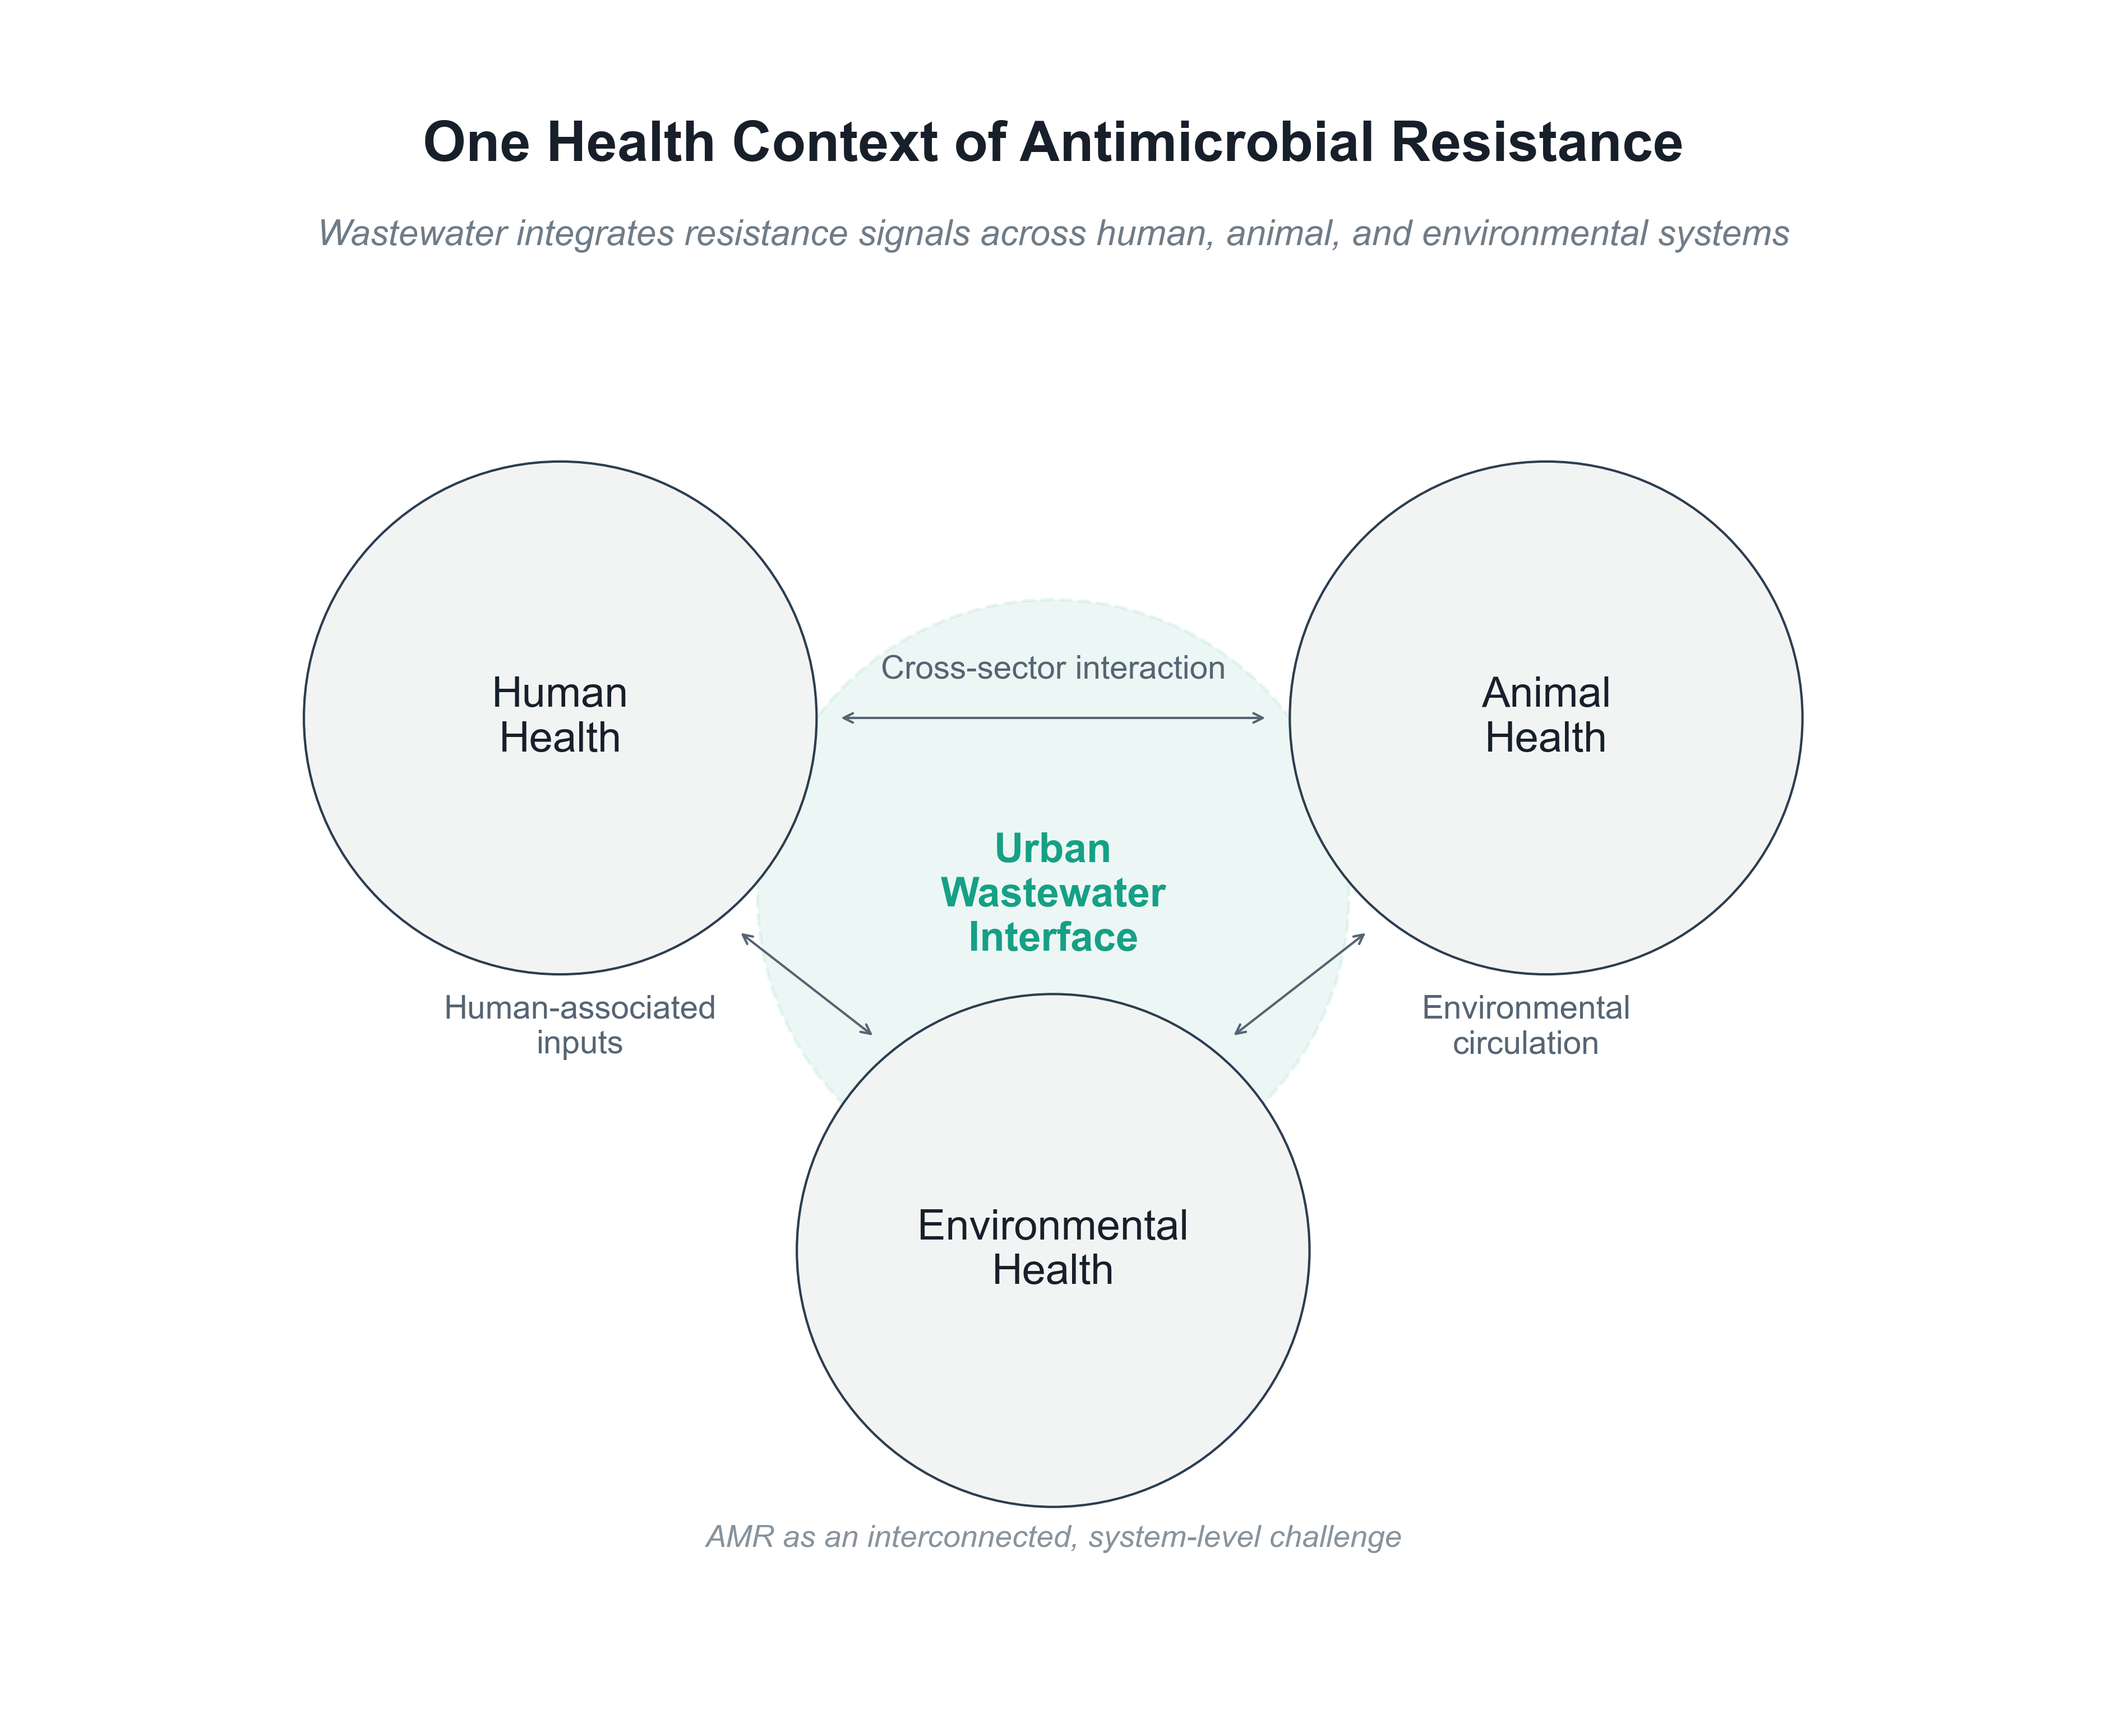
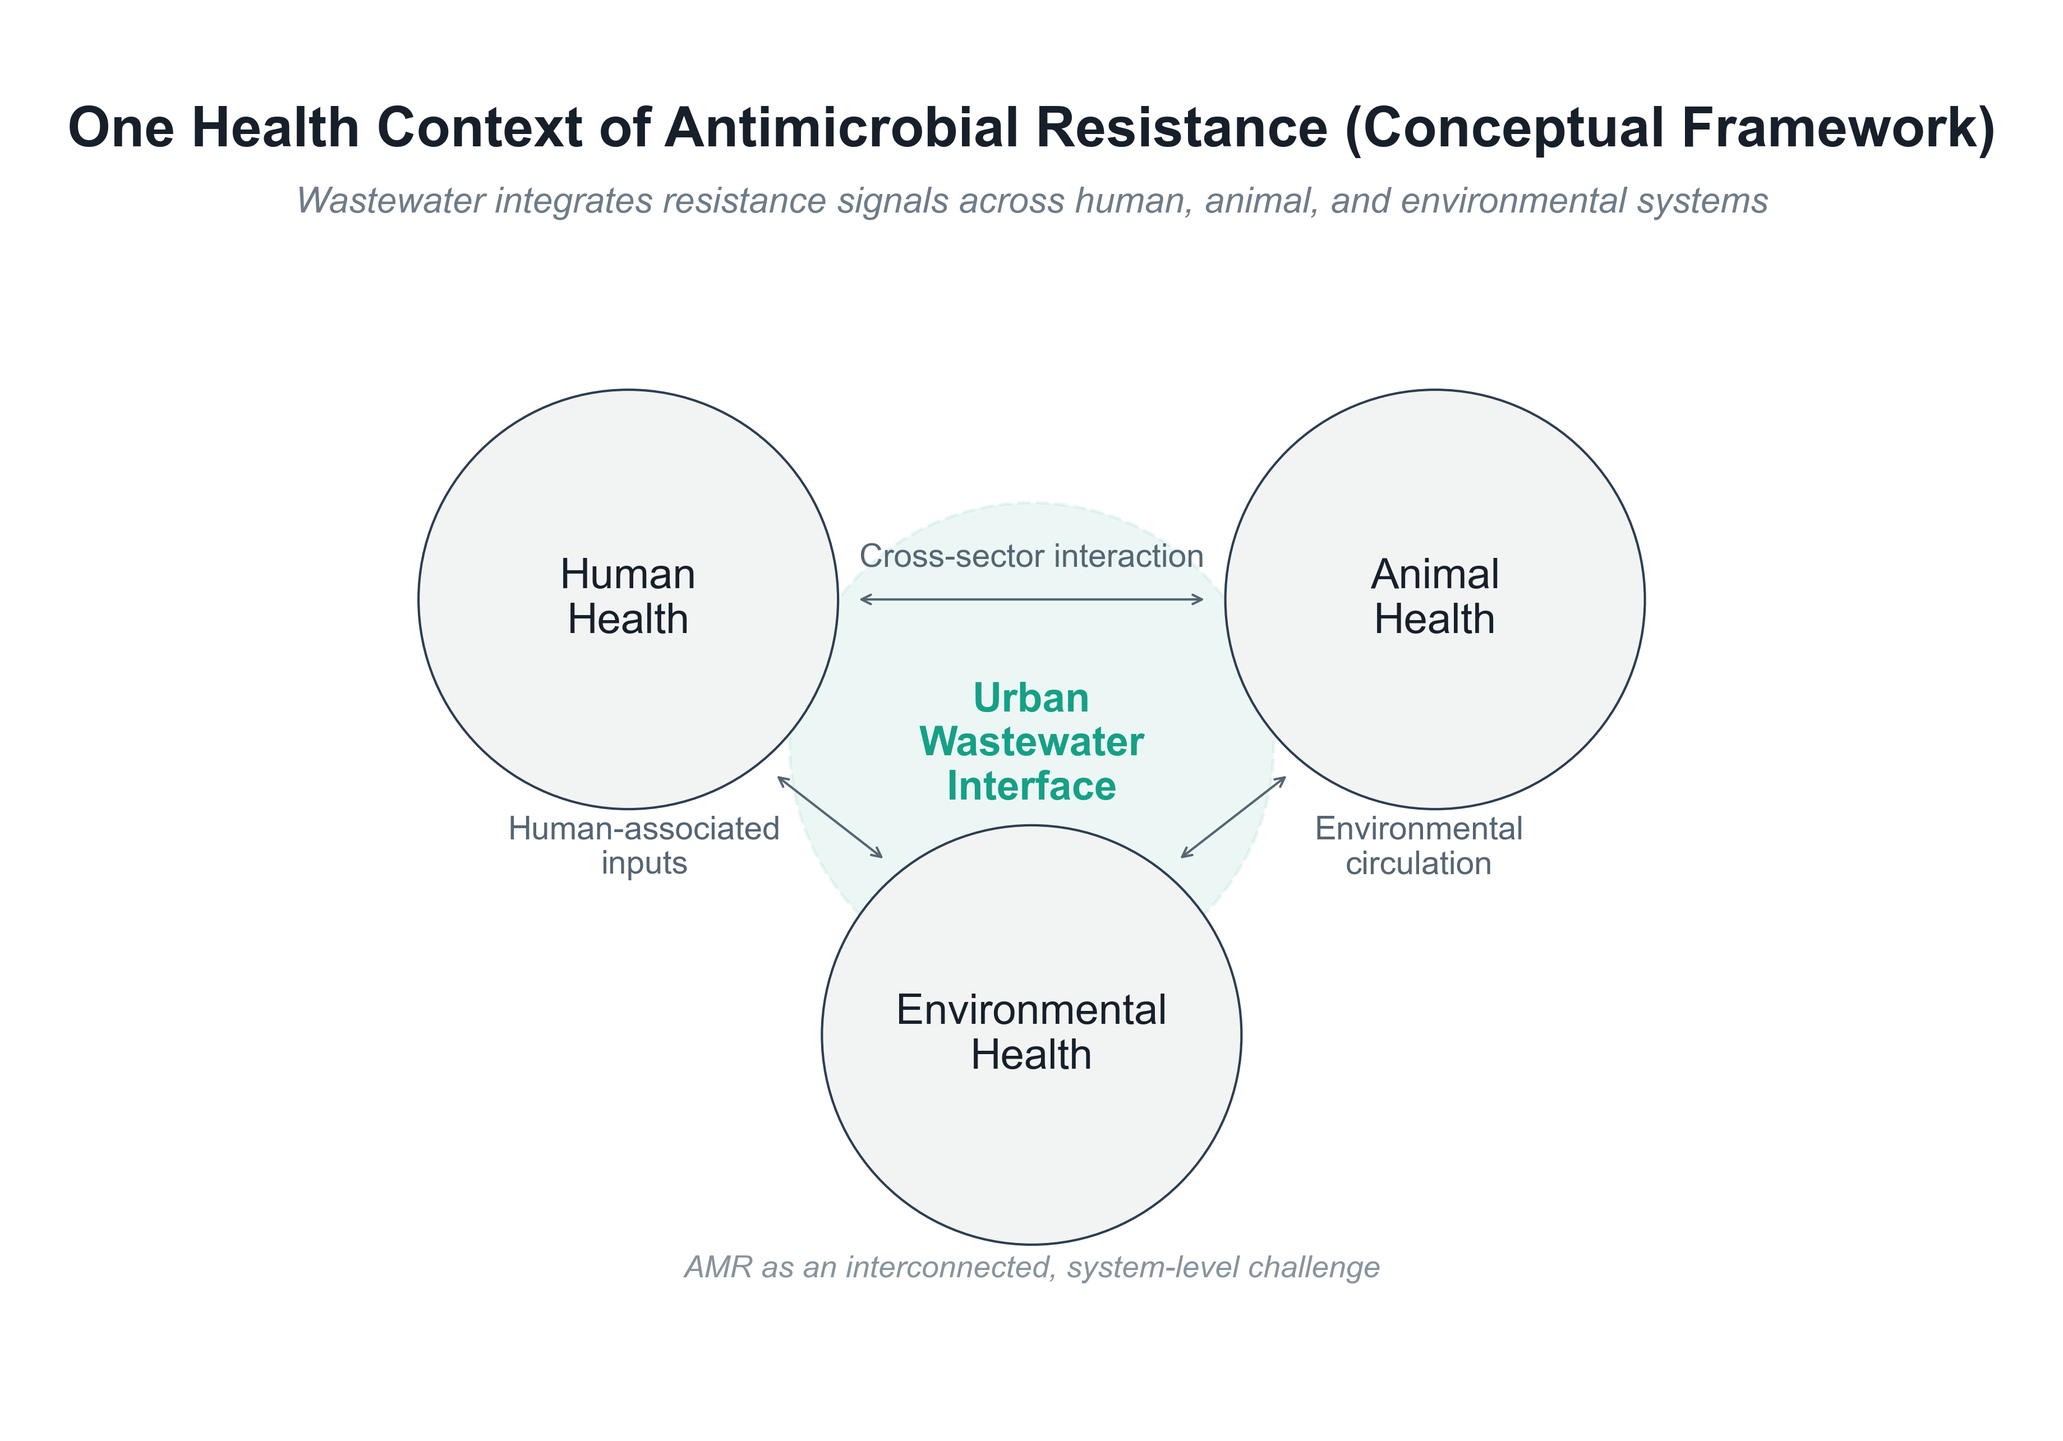
Document Tier-2 baseline inference and visualization interpretation boundaries

diff --git a/visualization/amr_thesis_visualization.py b/visualization/amr_thesis_visualization.py
@@ -101,7 +101,7 @@ def draw_one_health_framework(ax, font_scale=1.0):
     create_gradient_background(ax)
     
     # Title - Title Case
-    ax.text(5, 7.9, 'One Health Context of Antimicrobial Resistance', fontsize=17*font_scale, fontweight='bold',
+    ax.text(5, 7.9, 'One Health Context of Antimicrobial Resistance (Conceptual Framework)', fontsize=17*font_scale, fontweight='bold',
             color=COLORS['text_dark'], ha='center', va='center')
     
     # Subtitle - No quotes, lighter grey
@@ -160,7 +160,7 @@ def draw_wastewater_sources(ax, font_scale=1.0):
     create_gradient_background(ax)
     
     # Title - Title Case
-    ax.text(5, 7.7, 'Wastewater as a Population Matrix', 
+    ax.text(5, 7.7, 'Wastewater as a Population Matrix (Conceptual Framework)', 
             fontsize=17*font_scale, fontweight='bold', color=COLORS['text_dark'], ha='center')
     
     # Subtitle - No quotes
@@ -217,11 +217,11 @@ def draw_tier_2_context(ax, font_scale=1.0):
     create_gradient_background(ax)
     
     # Title - Title Case
-    ax.text(5, 7.9, 'Tier-2 Urban Wastewater Profile', 
+    ax.text(5, 7.9, 'Tier-2 Urban Wastewater Profile (Conceptual Framework)', 
             fontsize=17*font_scale, fontweight='bold', color=COLORS['text_dark'], ha='center')
     
     # Subtitle - Refined
-    ax.text(5, 7.5, 'Key characteristics of under-studied Tier-2 urban settings',
+    ax.text(5, 7.5, 'Inferred relevance through structural and infrastructural analogy',
             fontsize=11*font_scale, color=COLORS['text_grey'], ha='center', style='italic', alpha=0.85)
     
     # Descriptive Layers - Equal spacing, simplified text
@@ -257,11 +257,11 @@ def draw_comparison_framework(ax, font_scale=1.0):
     create_gradient_background(ax)
     
     # Title - Title Case
-    ax.text(5, 7.7, 'Comparative Study Logic',
+    ax.text(5, 7.7, 'Comparative Study Logic (Baseline-Referenced)',
             fontsize=17*font_scale, fontweight='bold', color=COLORS['text_dark'], ha='center')
     
     # Subtitle - Refined
-    ax.text(5, 7.3, 'Ecological comparison of resistance patterns across wastewater types',
+    ax.text(5, 7.3, 'Ecological comparison of resistance patterns against reference baselines',
             fontsize=11*font_scale, color=COLORS['text_grey'], ha='center', style='italic', alpha=0.85)
     
     # Center Separator - Exactly centered
@@ -274,7 +274,7 @@ def draw_comparison_framework(ax, font_scale=1.0):
     panels = [
         (0.6, 2.7, 'Medical-influenced\nWastewater', COLORS['medical'], 
          ['Elevated antibiotic exposure', 'Point-source healthcare inputs', 'Differentiated ARG patterns']),
-        (5.4, 2.7, 'Non-medical\nWastewater', COLORS['non_medical'], 
+        (5.4, 2.7, 'Non-medical Wastewater\n(Reference Baseline)', COLORS['non_medical'], 
          ['Community baseline signal', 'Distributed urban inputs', 'Background ARG patterns'])
     ]
     
@@ -301,14 +301,14 @@ def draw_analysis_pipeline(ax, font_scale=1.0):
     create_gradient_background(ax)
     
     # Title - Title Case
-    ax.text(5, 7.9, 'Analytical & Interpretation Framework',
+    ax.text(5, 7.9, 'Analytical & Interpretation Framework (Conceptual)',
             fontsize=17*font_scale, fontweight='bold', color=COLORS['text_dark'], ha='center')
     
     # Pipeline steps - No numbering emphasis, increased spacing
     steps = [
         ('Data Acquisition', 'Secondary analysis of\nmetagenomic FASTQ'),
         ('ARG Annotation', 'Bioinformatics profiling\n(CARD / ResFinder)'),
-        ('Comparison', 'Abundance and\ndiversity metrics'),
+        ('Comparison', 'Baseline-referenced\ndiversity metrics'),
         ('Interpretation', 'One Health ecological\ncharacterization')
     ]
     
@@ -324,12 +324,14 @@ def draw_analysis_pipeline(ax, font_scale=1.0):
         ax.text(1.4 + i*2.3, y_step-0.3, desc, fontsize=8.5*font_scale, color=COLORS['text_grey'], ha='center')
     
     # Interpretation Constraint Box - Reduced height, simplified
-    ax.add_patch(FancyBboxPatch((1.8, 3.0), 6.4, 1.4, boxstyle="round,pad=0.15",
+    ax.add_patch(FancyBboxPatch((1.6, 3.0), 6.8, 1.4, boxstyle="round,pad=0.15",
                                  facecolor=COLORS['medical'], alpha=0.03, ec=COLORS['medical'], lw=1.2, linestyle='--'))
     
     ax.text(5, 3.9, 'Interpretation Boundary', fontsize=11*font_scale, fontweight='bold', color=COLORS['medical'], ha='center')
     ax.text(5, 3.5, 'Analysis constrained to population-level ecological patterns', 
            fontsize=11.5*font_scale, color=COLORS['medical'], ha='center', fontweight='normal', style='italic')
+    ax.text(5, 3.15, 'Baseline-referenced comparison; no causal, clinical, or transmission inference',
+           fontsize=9.5*font_scale, color=COLORS['medical'], ha='center', fontweight='normal')
     
     # Footnote - Reduced opacity
     ax.text(5, 2.2, 'Workflow optimized for characterization of secondary datasets', 
@@ -342,9 +344,9 @@ def create_full_visualization():
     fig.patch.set_facecolor(COLORS['white'])
     
     # Main title
-    fig.suptitle('AMR SURVEILLANCE IN URBAN WASTEWATER', 
+    fig.suptitle('AMR CHARACTERIZATION IN URBAN WASTEWATER', 
                  fontsize=22, fontweight='bold', color=COLORS['text_dark'], y=0.98)
-    fig.text(0.5, 0.95, 'Analytical Framework for Assessing Medical Waste Influence on Resistance Patterns',
+    fig.text(0.5, 0.95, 'Analytical Framework for Assessing Medical Waste Influence on Resistance Patterns (Conceptual)',
              fontsize=13, color=COLORS['text_grey'], ha='center', fontweight='bold')
     
     # Create 2x2 grid
@@ -470,13 +472,13 @@ def draw_study_design_flowchart(ax, font_scale=1.0):
                        arrowprops=dict(arrowstyle='->', color=COLORS['neutral'], lw=2.0))
     
     # Scope Limitation Banner
-    ax.add_patch(FancyBboxPatch((3, 0.15), 8, 0.75, boxstyle="round,pad=0.1",
+    ax.add_patch(FancyBboxPatch((2, 0.15), 10, 0.75, boxstyle="round,pad=0.1",
                                     facecolor=COLORS['neutral_light'], alpha=1.0,
                                     edgecolor=COLORS['border'], linewidth=1.5*font_scale))
-    ax.text(7, 0.55, 'SCOPE LIMITATION', fontsize=11*font_scale, fontweight='bold',
+    ax.text(7, 0.55, 'SCOPE & INTERPRETATION BOUNDARY', fontsize=11*font_scale, fontweight='bold',
            color=COLORS['text_dark'], ha='center')
-    ax.text(7, 0.35, 'Population-level, descriptive analysis only. Interpretation constrained to ecological signals.',
-           fontsize=10*font_scale, color=COLORS['text_grey'], ha='center')
+    ax.text(7, 0.35, 'Population-level ecological patterns only. Baseline-referenced; no causal, clinical, or transmission inference.',
+           fontsize=9.5*font_scale, color=COLORS['text_grey'], ha='center')
 
 def create_study_design_flowchart():
     """Create a study design flowchart."""

diff --git a/docs/IMPLEMENTATION_LOG.md b/docs/IMPLEMENTATION_LOG.md
@@ -4,7 +4,7 @@
 
 This document serves as a living record of the procedures, methodologies, and technical milestones incorporated into the research project: _"Medical Waste Influence on AMR Gene Patterns in Tier-2 Indian City Wastewater"_.
 
-**Last Updated:** 2026-01-24
+**Last Updated:** 2026-01-25
 
 ---
 
@@ -14,16 +14,13 @@ This document serves as a living record of the procedures, methodologies, and te
 - [x] **Urban Matrix Definition**: Defined urban wastewater as a population-level "matrix" that aggregates AMR signals from community households and healthcare facilities.
 - [x] **Geographic Focus**: Defined the scope for Tier-2 Indian cities, emphasizing the unique challenges of incomplete waste segregation and mixed land use.
 - [x] **Comparative Research Logic**: Established the core methodology of comparing _Medical-influenced_ vs. _Non-medical_ wastewater streams to isolate clinical signatures.
+- [x] **Tier-2 Inference Framework**: Defined relevance through structural and infrastructural analogy rather than direct representation, using reference baselines for contextualization.
 
 ## 2. Technical Infrastructure & Visualization
 
 - [x] **Automated Figure Generation**: Developed a Python-based pipeline (`visualization/amr_thesis_visualization.py`) using Matplotlib for consistent, publication-grade academic figures.
-- [x] **Visual Framework Repository**: Generated and archived five core conceptual figures:
-  - **Figure 1**: One Health Context of AMR.
-  - **Figure 2**: Wastewater as a Population Matrix.
-  - **Figure 3**: Tier-2 Urban Wastewater Profile.
-  - **Figure 4**: Comparative Study Logic.
-  - **Figure 5**: Analytical & Interpretation Framework.
+- [x] **Visual Framework Repository**: Generated and archived five core conceptual figures, labeled as conceptual frameworks with baseline-referenced comparative logic.
+- [x] **Interpretation Guardrails**: Explicitly documented boundaries (population-level, no causal/clinical inference) within both documentation and figure annotations.
 - [x] **Project Scaffolding**: Structured the repository into functional modules (`data/`, `docs/`, `logs/`, `visualization/`).
 
 ## 3. Data & Metadata Strategy
@@ -42,4 +39,5 @@ This document serves as a living record of the procedures, methodologies, and te
 
 ## Change Log
 
+- **2026-01-25**: Incorporated Tier-2 inference logic and baseline-referenced interpretation framework. Updated documentation and visualization code to reflect interpretation boundaries (population-level, no causal inference).
 - **2026-01-24**: Initial creation of the Implementation Log. Consolidated research framework and visualization milestones.

diff --git a/README.md b/README.md
@@ -1,13 +1,29 @@
-# AMR Surveillance Using Wastewater Metagenomics
+# AMR Characterization Using Wastewater Metagenomics
 
-This repository documents the research workflow, dataset curation, and analysis steps for a Master's thesis focused on antimicrobial resistance (AMR) surveillance using wastewater metagenomic data.
+This repository documents the research workflow, dataset curation, and analysis steps for a Master's thesis focused on antimicrobial resistance (AMR) characterization using wastewater metagenomic data.
 
-## Scope
+## Scope & Interpretation Framework
 
-- Hospital wastewater vs non-medical urban sewage
-- Publicly available metagenomic datasets
-- Resistome profiling and comparative analysis
-- One Health and environmental surveillance context
+- **Comparative Analysis**: Hospital wastewater vs non-medical urban sewage.
+- **Data Strategy**: Utilization of publicly available metagenomic datasets.
+- **Resistome Profiling**: Characterization of antibiotic resistance gene (ARG) patterns.
+- **One Health Context**: Environmental characterization of AMR within the urban interface.
+
+**Tier-2 Inference Logic**:
+Tier-2 relevance is defined by infrastructural characteristics, such as mixed land use and incomplete wastewater segregation, rather than administrative labels. No dataset is presented as a direct representation of a specific Tier-2 city; instead, inferences are conditional and comparative, using structural and infrastructural analogy to provide relevance to Tier-2 urban settings.
+
+## Visualization Framework
+
+All figures in this repository are conceptual and explanatory. Visualizations are intended to support interpretation and clarify the research methodology, rather than representing empirical results. Comparisons shown in visualizations are baseline-referenced, using Tier-1 Indian and international wastewater datasets as reference baselines to contextualize resistance patterns.
+
+## Interpretation Boundaries
+
+To maintain methodological transparency, the following boundaries are enforced:
+
+- **Ecological Focus**: Analysis is constrained to population-level ecological patterns.
+- **Baseline-Referenced Comparison**: Findings are contextualized against established reference datasets.
+- **No Causal Inference**: This study does not provide causal, clinical, or transmission inference.
+- **Aggregated Signal**: Wastewater data reflects collective urban pressure and not individual risk or source-specific causality.
 
 ## Status
 

diff --git a/docs/README.md b/docs/README.md
@@ -5,10 +5,13 @@ This directory contains the core documentation for the research project: _"Medic
 ## Key Documents
 
 - **[Implementation Log](IMPLEMENTATION_LOG.md)**: A continuously updated record of procedures, technical milestones, and project history.
-- **Visual Synopsis**: Detailed descriptions of the figures located in the `visualization/` directory.
+- **Visual Synopsis**: Conceptual and explanatory descriptions of the figures located in the `visualization/` directory.
+- **[Interpretation Framework](../README.md#scope--interpretation-framework)**: Detailed logic for Tier-2 inference and population-level ecological interpretation.
 
-## Contents
+## Visualization Framework
 
-- **Methodology Notes**: Documentation of the bioinformatics pipelines and statistical models.
-- **Literature Summaries**: Key takeaways from relevant research papers.
-- **Analysis Decisions**: Records of why specific parameters or datasets were chosen.
+Tier-1 Indian and international wastewater datasets are used as reference baselines to contextualize resistance patterns, enabling inference relevant to Tier-2 urban settings characterized by mixed land use and incomplete wastewater infrastructure. All figures are conceptual and explanatory, supporting interpretation rather than empirical results.
+
+## Interpretation Boundaries
+
+Analysis is strictly constrained to population-level ecological patterns using baseline-referenced comparisons. Documentation and visualizations explicitly exclude causal, clinical, or transmission inference.
